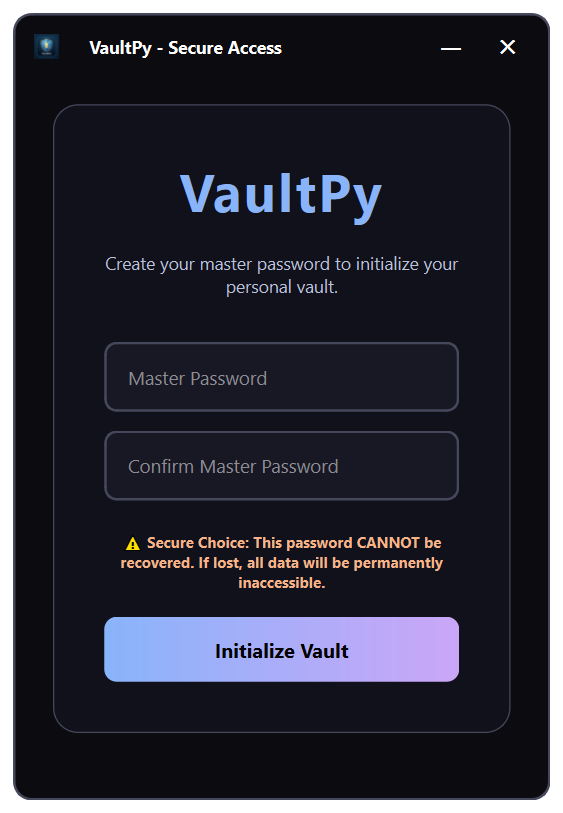
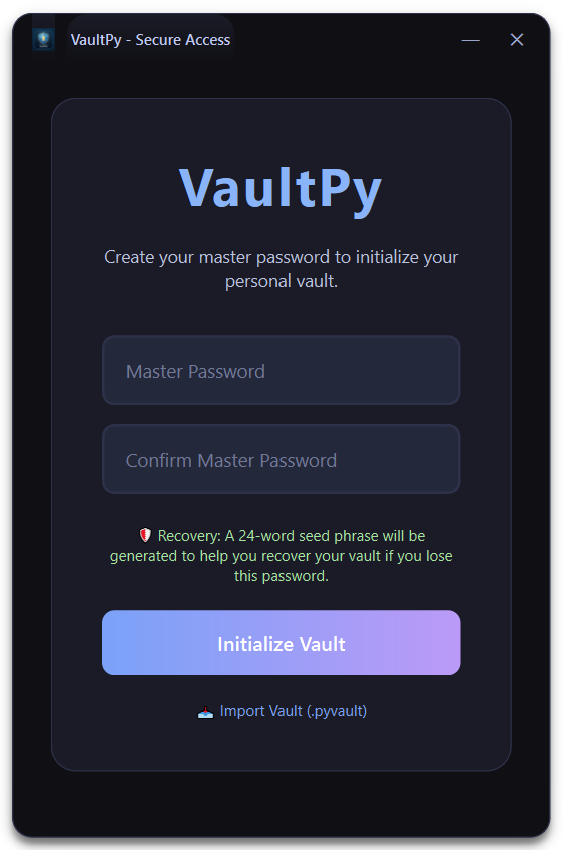
docs: Update README and screenshots for v1.4.0 (Midnight Vault & Folders)

diff --git a/scripts/capture.py b/scripts/capture.py
@@ -45,16 +45,24 @@ def capture_screenshot():
         
         # Add some mock items for the list
         mock_accounts = [
-            Account(1, "Google", "mustafa@gmail.com", b"enc", b"enc", b"enc"),
-            Account(2, "GitHub", "MustafaMahmoud", b"enc", b"enc", b"enc"),
-            Account(3, "Facebook", "mustafa_dev", b"enc", b"enc", b"enc")
+            Account(1, "Google", "mustafa@gmail.com", b"enc", b"enc", b"enc", folder="Personal"),
+            Account(2, "GitHub", "MustafaMahmoud", b"enc", b"enc", b"enc", folder="Work"),
+            Account(3, "Facebook", "mustafa_dev", b"enc", b"enc", b"enc", folder="Social")
         ]
         
-        # Populate the list widget directly for the shot
+        # Populate folders
+        vault_win.folder_sidebar.addItem("📁 All Accounts")
+        vault_win.folder_sidebar.addItem("📁 Personal")
+        vault_win.folder_sidebar.addItem("📁 Work")
+        vault_win.folder_sidebar.addItem("📁 Social")
+        vault_win.folder_sidebar.setCurrentRow(0)
+
+        # Populate the list widget with the new multi-line format
         from PySide6.QtWidgets import QListWidgetItem
         from PySide6.QtCore import Qt
         for acc in mock_accounts:
-            item = QListWidgetItem(f"{acc.service} | {acc.username}")
+            display_text = f"{acc.service}\n{acc.username}"
+            item = QListWidgetItem(display_text)
             item.setData(Qt.UserRole, acc)
             vault_win.account_list.addItem(item)
             

diff --git a/README.md b/README.md
@@ -12,7 +12,7 @@
   <img src="https://img.shields.io/badge/Platform-Windows-0078D6?style=for-the-badge&logo=windows&logoColor=white" alt="Platform">
 </p>
 
-VaultPy is a professional-grade, local-first password manager built with Python and PySide6. It features a modern, frameless UI designed for high-contrast visibility and maximum security, with a DPAPI-bound architecture that tethers your vault to your Windows machine.
+VaultPy is a professional-grade, local-first password manager built with Python and PySide6. It features the **'Midnight Vault'** signature UI — a modern, frameless aesthetic designed for premium dark-mode visibility and maximum security, featuring folder-based organization and a DPAPI-bound architecture.
 
 ---
 
@@ -47,7 +47,9 @@ VaultPy is designed with a premium, frameless aesthetic. Explore the interface b
 
 ---
 
-## ✨ Key Features (v1.3.0)
+## ✨ Key Features (v1.4.0 - Folders & UI Update)
+
+- **📁 Folder Organization**: Categorize your accounts into custom folders (Work, Personal, Social, etc.) for streamlined management and faster searching.
 
 - **🔐 DPAPI-Bound Memory Protection**: The Master Key (DEK) is sealed in RAM using Windows DPAPI with machine-bound entropy — never stored as plaintext.
 - **🔐 Triple-Wrap Architecture**: Your Data Encryption Key (DEK) is wrapped by **three independent providers**: Password, 24-word Phrase, and TOTP Secret.
@@ -61,11 +63,10 @@ VaultPy is designed with a premium, frameless aesthetic. Explore the interface b
 - **🛡 Disaster Resiliency**: BIP39-style 24-word recovery seeds and phone-based recovery ensure you never lose access.
 - **💾 Portable Backups**: Export your entire vault as a standalone, encrypted **.pyvault** file.
 - **🔄 Seamless Migration**: Automated upgrade path from v1.2.x with backward-compatible Argon2 parameter detection.
-- **📅 Pro UI/UX**: Professional frameless window architecture with custom title bar, rounded corners, and high-contrast visuals.
-- **2FA Support (TOTP)**: Built-in generator with live countdown and high-visibility indicators.
-- **Strong Encryption**: All secrets protected by **AES-256-GCM** authenticated encryption.
+- **📅 Midnight Vault UI**: Complete visual overhaul featuring a 40px custom title bar, high-contrast Tokyo Night color palette, and premium micro-animations (Copy transitions, TOTP pulses).
+- **2FA Support (TOTP)**: Built-in generator with live countdown and high-visibility indicators, now with dynamic speed-alert color coding.
 
-## 🛡 Security Architecture (v1.3.0)
+## 🛡 Security Architecture (v1.4.0)
 
 VaultPy employs a defense-in-depth security model:
 
@@ -88,7 +89,7 @@ VaultPy employs a defense-in-depth security model:
 
 - **Password, Recovery Phrase, and TOTP**: All three unlock paths support automatic fallback to legacy parameters.
 - **TOTP Secret Migration**: Legacy XOR-obfuscated TOTP secrets are automatically migrated to DPAPI encryption on first successful login.
-- **No manual steps required**: Simply replace the old executable with the new one and log in normally.
+- **No manual steps required**: Simply replace the old executable with the new one and log in normally. The application will automatically migrate your database to support the new folder architecture.
 
 ## 🚀 Getting Started
 
